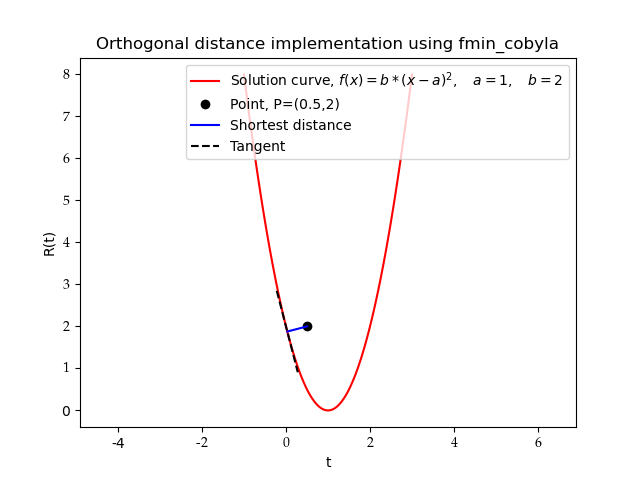
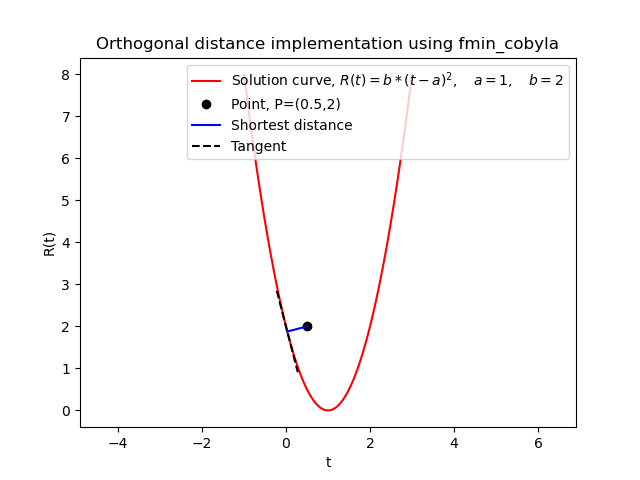
Update figure orthogonal distance

diff --git a/Code/visualise_orthogonal_distance.py b/Code/visualise_orthogonal_distance.py
@@ -73,7 +73,7 @@ x = np.linspace(a-2, a+2, 100)
 # A length factor for esthetic reasons: determines how long the tangent is
 length_factor = 0.25
 # Do the actual plotting
-plt.plot(x, f(x,(a,b)), 'r-', label="Solution curve, $f(x)=b*(x-a)^2,\quad a="+str(a)+",\quad b="+str(b)+"$")
+plt.plot(x, f(x,(a,b)), 'r-', label="Solution curve, $R(t)=b*(t-a)^2,\quad a="+str(a)+",\quad b="+str(b)+"$")
 plt.plot(P[0], P[1], 'ko', label="Point, P=("+str(P[0])+","+str(P[1])+")")
 plt.plot([P[0], X[0]], [P[1], X[1]], 'b-', label='Shortest distance')
 plt.plot([X[0]-length_factor, X[0] + length_factor], [X[1] - length_factor*2.0 *b* (X[0]-a), X[1] +length_factor* 2.0 *b* (X[0]-a)], 'k--', label='Tangent')
